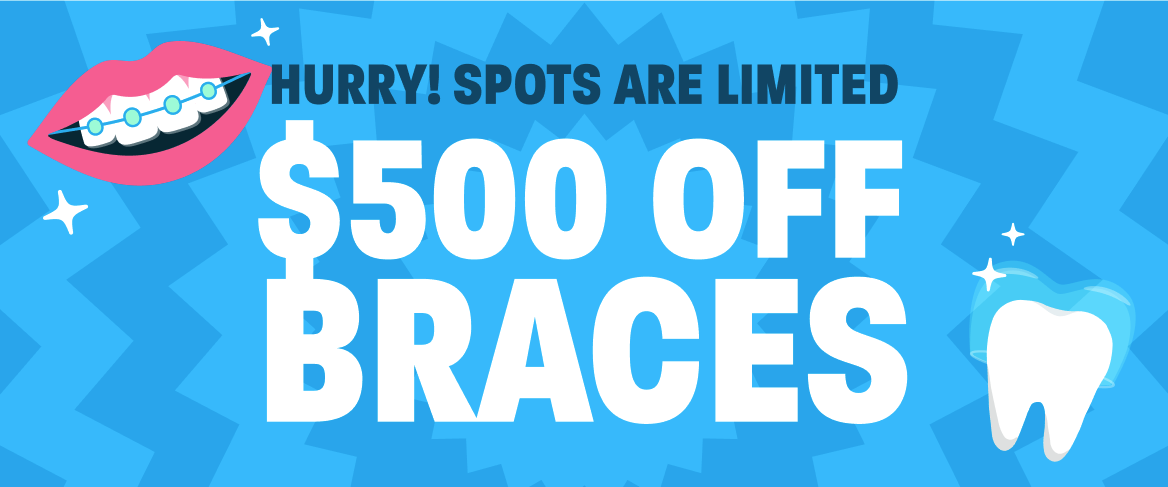
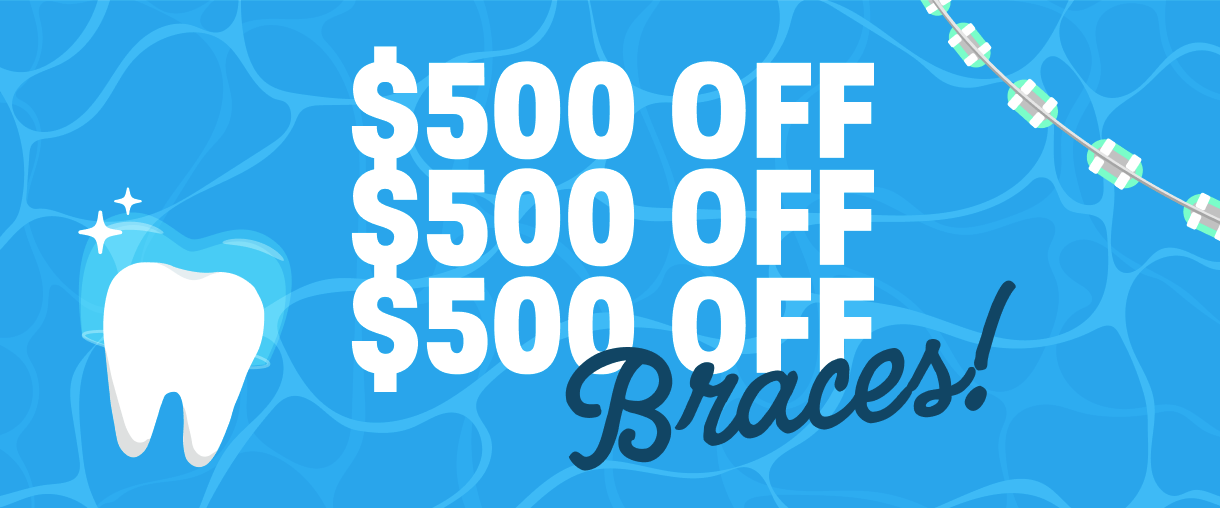
updates

diff --git a/emails/RD_500Braces-Campaign_Email-3/RD_500Braces-Campaign_Email-3.html b/emails/RD_500Braces-Campaign_Email-3/RD_500Braces-Campaign_Email-3.html
@@ -675,7 +675,7 @@
                                   <td align="center">
                                     <a href="https://www.rodeodental.com/braces" target="_blank" rel="noopener" 
                                       style="text-decoration: none;display: block;line-height: 1;">
-                                        <img data-assetid="" src="https://wgr-emails.s3.us-east-2.amazonaws.com/RD_500Braces-Campaign_Email-1/images/logo.png" alt="RODEO DENTAL" width="100%" style="display: block; padding: 0px; text-align: center; height: auto; width: 100%; border: 0px;">
+                                        <img data-assetid="" src="https://wgr-emails.s3.us-east-2.amazonaws.com/RD_500Braces-Campaign_Email-3/images/logo.png" alt="RODEO DENTAL" width="100%" style="display: block; padding: 0px; text-align: center; height: auto; width: 100%; border: 0px;">
                                     </a>
                                   </td>
                                 </tr>
@@ -726,7 +726,7 @@
                                       <img data-assetid=""
                                         src=
                                         
-                                        "https://wgr-emails.s3.us-east-2.amazonaws.com/RD_500Braces-Campaign_Email-1/images/landing.png" 
+                                        "https://wgr-emails.s3.us-east-2.amazonaws.com/RD_500Braces-Campaign_Email-3/images/landing.png" 
                                         alt="RODEO DENTAL" width="600"
                                         style="display: block; padding: 0px; text-align: center; height: auto; width: 100%; max-width: 100%; border: 0px;">
                                     </a>
@@ -871,7 +871,7 @@
                             <img data-assetid=""
                               src=
                               
-                              "https://wgr-emails.s3.us-east-2.amazonaws.com/RD_500Braces-Campaign_Email-1/images/button.png" 
+                              "https://wgr-emails.s3.us-east-2.amazonaws.com/RD_500Braces-Campaign_Email-3/images/button.png" 
                               alt="RODEO DENTAL" width="600"
                               style="display: block; padding: 0px; text-align: center; height: auto; width: 100%; max-width: 100%; border: 0px; padding-bottom: 10px;">
                           </a>
@@ -909,7 +909,7 @@
                                 style="text-decoration: none;display: block;line-height: 1;">
                                 <img data-assetid=""
                                   src=
-                                  "https://wgr-emails.s3.us-east-2.amazonaws.com/RD_500Braces-Campaign_Email-1/images/info.png" 
+                                  "https://wgr-emails.s3.us-east-2.amazonaws.com/RD_500Braces-Campaign_Email-3/images/info.png" 
                                   alt="RODEO DENTAL" width="600"
                                   style="display: block; padding: 0px; text-align: center; height: auto; width: 100%; max-width: 100%; border: 0px;">
                               </a>
